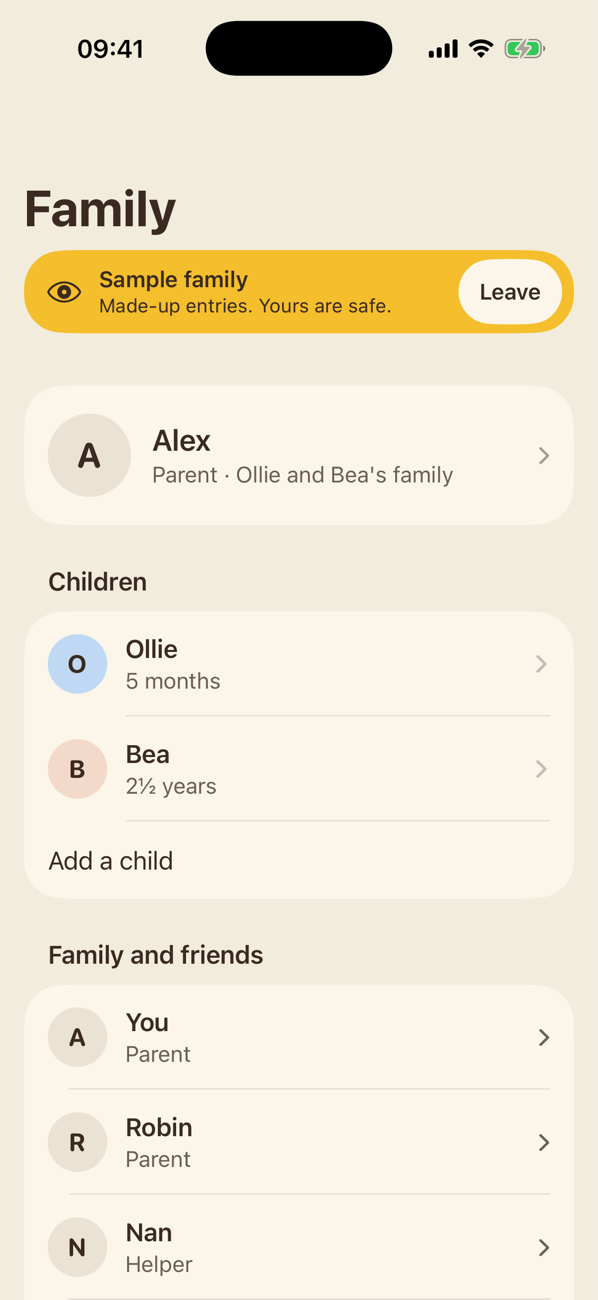
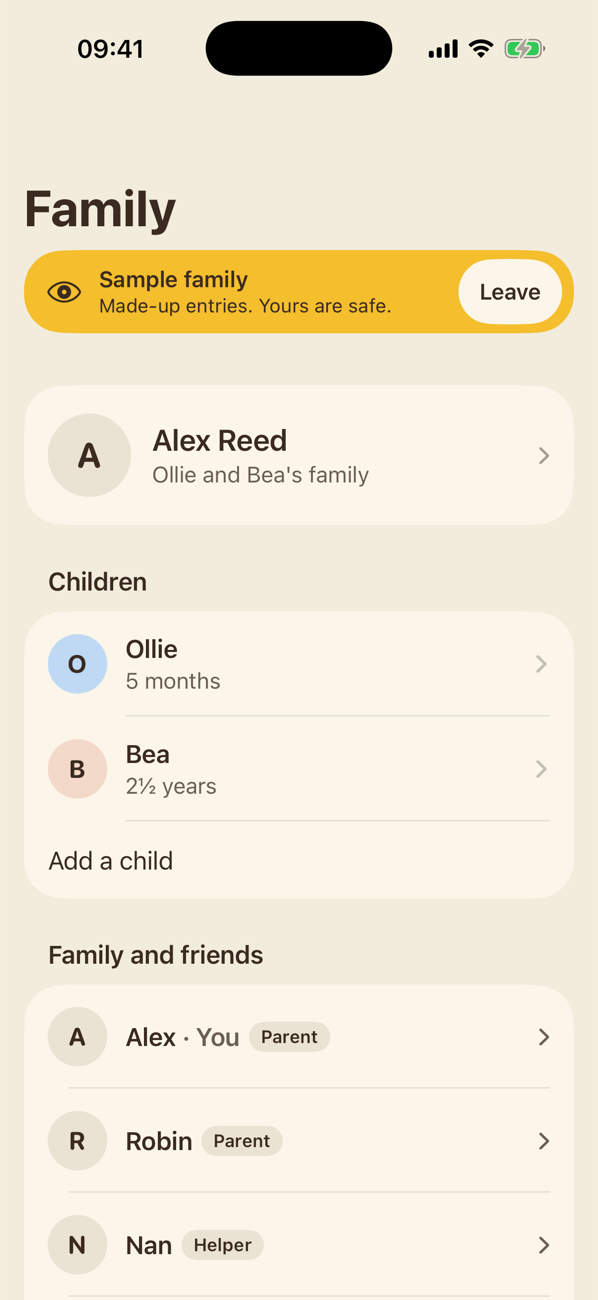
Family: 'Name · You' and a role pill on each person's row

diff --git a/app/Puggle/Features/Family/PeopleViews.swift b/app/Puggle/Features/Family/PeopleViews.swift
@@ -83,18 +83,22 @@ struct PersonRow: View {
     var isMe: Bool
     var opens: Bool
 
-    private var detail: String {
-        if person.hasJoined { return person.role.title }
-        guard let invited = person.invitedAt else { return person.role.title }
-        return "\(person.role.title). Invited \(invited.formatted(.dateTime.weekday(.wide)))"
+    private var detail: String? {
+        guard !person.hasJoined, let invited = person.invitedAt else { return nil }
+        return "Invited \(invited.formatted(.dateTime.weekday(.wide)))"
     }
 
     var body: some View {
         HStack(spacing: 12) {
             PersonAvatar(person: person, size: 40)
             VStack(alignment: .leading) {
-                Text(isMe ? "You" : person.displayName).font(.headline)
-                Text(detail).font(.subheadline).foregroundStyle(Palette.muted)
+                // Their name, and "You" after it on the person's own row (Tom, 15 November 2026).
+                // Their role is the pill beside it, so the line under the name is only for someone still to join.
+                HStack(spacing: 6) {
+                    NameAndYou(name: person.displayName, isMe: isMe).font(.headline)
+                    RoleChip(person.role.title)
+                }
+                if let detail { Text(detail).font(.subheadline).foregroundStyle(Palette.muted) }
             }
             Spacer(minLength: 0)
             if !person.hasJoined {
@@ -112,6 +116,37 @@ struct PersonRow: View {
         }
         .contentShape(Rectangle())
         .accessibilityElement(children: .combine)
+    }
+}
+
+/// "Alex · You" on the person's own row, their name alone on anyone else's, and "You" where no name is set.
+struct NameAndYou: View {
+    let name: String
+    let isMe: Bool
+
+    var body: some View {
+        let known = !name.trimmingCharacters(in: .whitespaces).isEmpty && name != "You"
+        if isMe, known {
+            (Text(name) + Text(" · You").foregroundStyle(Palette.muted)).lineLimit(1)
+        } else {
+            Text(isMe ? "You" : name).lineLimit(1)
+        }
+    }
+}
+
+/// A small pill beside a name, holding the person's role: Parent, Helper or Viewer.
+struct RoleChip: View {
+    let text: String
+    init(_ text: String) { self.text = text }
+
+    var body: some View {
+        Text(text)
+            .font(.caption.weight(.semibold))
+            .foregroundStyle(Palette.ink)
+            .padding(.horizontal, 8)
+            .padding(.vertical, 3)
+            .background(Palette.field, in: Capsule())
+            .fixedSize()
     }
 }
 

diff --git a/app/Puggle/Features/Family/FamilyView.swift b/app/Puggle/Features/Family/FamilyView.swift
@@ -33,6 +33,8 @@ struct FamilyView: View {
                         .listRowBackground(Color.clear)
                 }
                 // You, at the head of your family, as the iPhone's own Settings has it (Tom, 15 November 2026).
+                // Only the name and the family here. "You" and the role are on the person's row in Family and
+                // friends, so nothing is said twice.
                 Section {
                     Button { showingYou = true } label: {
                         HStack(spacing: 14) {
@@ -41,7 +43,8 @@ struct FamilyView: View {
                                 Text(yourName.trimmingCharacters(in: .whitespaces).isEmpty ? "Add your name" : yourName)
                                     .font(.title3.weight(.semibold))
                                     .foregroundStyle(Palette.ink)
-                                Text("\(store.role.title) · \(store.familyName.isEmpty ? store.childrenTitle : store.familyName)")
+                                    .lineLimit(1)
+                                Text(store.familyName.isEmpty ? store.childrenTitle : store.familyName)
                                     .font(.subheadline)
                                     .foregroundStyle(Palette.muted)
                                     .lineLimit(1)
@@ -141,7 +144,8 @@ struct FamilyView: View {
                     ForEach(people) { person in
                         let opens = store.isParent || store.isMe(person)
                         Button {
-                            if opens { opened = person }
+                            // Your own row opens your photo and name, as the card at the top does.
+                            if store.isMe(person) { showingYou = true } else if opens { opened = person }
                         } label: {
                             PersonRow(person: person, isMe: store.isMe(person), opens: opens)
                         }

diff --git a/docs/baby-tracker-spec.md b/docs/baby-tracker-spec.md
@@ -1492,3 +1492,8 @@ the head, in a card with your photo and name, and everything else beneath.
 
 Open, from Apple's guidance: Tiles is an option for one screen, and Today already has its own Edit, so the
 Tiles row in Settings may not be needed. Appearance repeats the iPhone's own light and dark setting.
+
+**Names and roles on the Family tab (15 November 2026, Tom).** The card at the top keeps to the person's name
+and the family. In Family and friends, a person's own row reads "Alex · You", and everyone's role is a small
+pill beside their name (Parent, Helper, Viewer), so "You" and the role are said once. The line under a name
+is now only for someone still to join ("Invited Tuesday"). A person's own row opens their photo and name.
